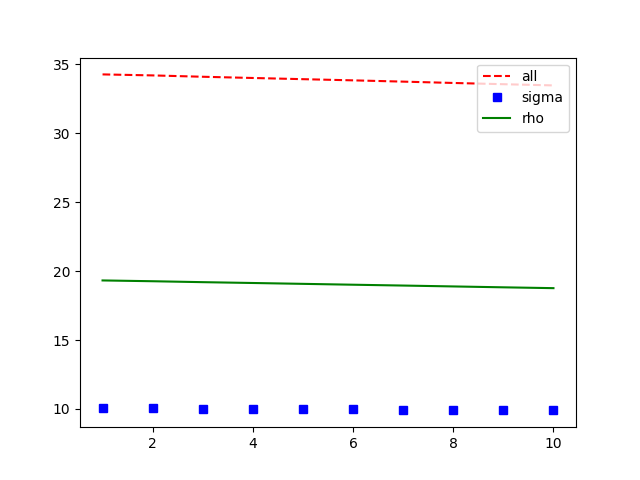
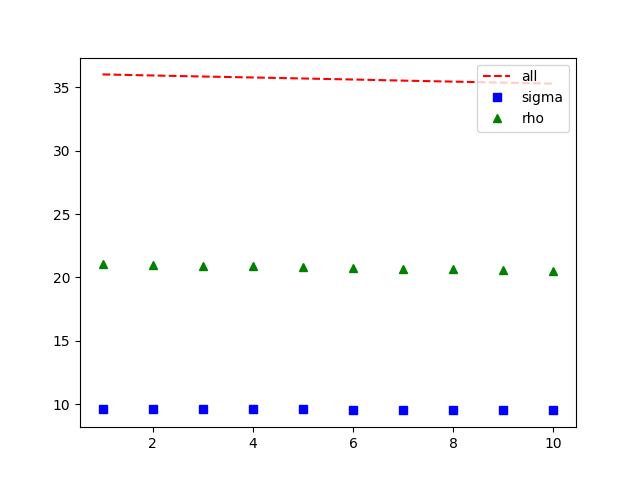
test

diff --git a/lorenz_nn.py b/lorenz_nn.py
@@ -257,7 +257,7 @@ plt.savefig(os.path.join(my_results_path_abso, my_results_file0))
 x_axis1 = np.arange(1,EPOCH+1)
 print(x_axis1)
 #plt.plot(x_axis1, error_all, 'r--', x_axis1, error_sigma, 'bs', x_axis1, error_rho, 'g^', x_axis1, error_beta, 'y*')
-plt.plot(x_axis1, error_all, 'r--', x_axis1, error_sigma, 'bs', x_axis1, error_rho, 'g')
+plt.plot(x_axis1, error_all, 'r--', x_axis1, error_sigma, 'bs', x_axis1, error_rho, 'g^')
 label = ['all', 'sigma', 'rho', 'beta']
 plt.legend(label, loc='upper right')
 my_results_file1 = 'all_epoch_par1'
